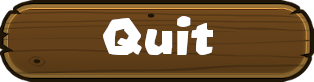
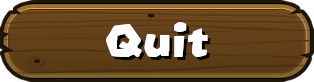
Changed every buttons, added third button state

Changed region(s): [[0.3153, 0.1951, 0.6879, 0.7317]]

diff --git a/src/zMain/check_hover_click.c b/src/zMain/check_hover_click.c
@@ -9,35 +9,45 @@
 
 void check_hover_click_ui(menu_scene *menu_scene)
 {
-    if (menu_scene->ui.play_btn.state == HOVER && sfMouse_isButtonPressed(sfMouseLeft))
-        menu_scene->ui.play_btn.state = CLICK;
-    if (menu_scene->ui.hiscore_btn.state == HOVER && sfMouse_isButtonPressed(sfMouseLeft))
-        menu_scene->ui.hiscore_btn.state = CLICK;
-    if (menu_scene->ui.settings_btn.state == HOVER && sfMouse_isButtonPressed(sfMouseLeft))
-        menu_scene->ui.settings_btn.state = CLICK;
-    if (menu_scene->ui.quit_btn.state == HOVER && sfMouse_isButtonPressed(sfMouseLeft))
-        menu_scene->ui.quit_btn.state = CLICK;
+    button *buttons[4];
+    buttons[0] = &menu_scene->ui.play_btn;
+    buttons[1] = &menu_scene->ui.hiscore_btn;
+    buttons[2] = &menu_scene->ui.settings_btn;
+    buttons[3] = &menu_scene->ui.quit_btn;
+    for (int i = 0; i < 4; i++)
+        if (buttons[i]->state == HOVER && sfMouse_isButtonPressed(sfMouseLeft))
+            buttons[i]->state = CLICKING;
+    for (int i = 0; i < 4; i++)
+        if (buttons[i]->state == HOVER && menu_scene->event->mouseButton.type == sfEvtMouseButtonReleased)
+            buttons[i]->state = CLICKED;
 }
 
 void check_hover_click_choice_menu(menu_scene *menu_scene)
 {
-    if (menu_scene->choice_menu.close_btn.state == HOVER && sfMouse_isButtonPressed(sfMouseLeft) && menu_scene->choice_state == 1)
-        menu_scene->choice_menu.close_btn.state = CLICK;
-    if (menu_scene->choice_menu.map_one_btn.state == HOVER && sfMouse_isButtonPressed(sfMouseLeft) && menu_scene->choice_state == 1) {
+    if (menu_scene->choice_menu.close_btn.state == HOVER &&
+    sfMouse_isButtonPressed(sfMouseLeft) && menu_scene->choice_state == 1)
+        menu_scene->choice_menu.close_btn.state = CLICKING;
+    if (menu_scene->choice_menu.close_btn.state == HOVER &&
+    menu_scene->event->mouseButton.type == sfEvtMouseButtonReleased &&
+    menu_scene->choice_state == 1)
+            menu_scene->choice_menu.close_btn.state = CLICKED;
+    if (menu_scene->choice_menu.map_one_btn.state == HOVER &&
+    sfMouse_isButtonPressed(sfMouseLeft) && menu_scene->choice_state == 1)
         *menu_scene->map_index = 1;
-    }
-    if (menu_scene->choice_menu.map_two_btn.state == HOVER && sfMouse_isButtonPressed(sfMouseLeft) && menu_scene->choice_state == 1) {
+    if (menu_scene->choice_menu.map_two_btn.state == HOVER &&
+    sfMouse_isButtonPressed(sfMouseLeft) && menu_scene->choice_state == 1)
         *menu_scene->map_index = 2;
-    }
-    if (menu_scene->choice_menu.map_three_btn.state == HOVER && sfMouse_isButtonPressed(sfMouseLeft) && menu_scene->choice_state == 1) {
+    if (menu_scene->choice_menu.map_three_btn.state == HOVER &&
+    sfMouse_isButtonPressed(sfMouseLeft) && menu_scene->choice_state == 1)
         *menu_scene->map_index = 3;
-    }
 }
 
 void check_hover_click_options_menu(menu_scene *menu_scene)
 {
     if (menu_scene->opt_ui.close_button.state == HOVER && sfMouse_isButtonPressed(sfMouseLeft))
-        menu_scene->opt_ui.close_button.state = CLICK;
+        menu_scene->opt_ui.close_button.state = CLICKING;
+    if (menu_scene->opt_ui.close_button.state == HOVER && menu_scene->event->mouseButton.type == sfEvtMouseButtonReleased && menu_scene->opt_state == 1)
+        menu_scene->opt_ui.close_button.state = CLICKED;
 }
 
 void check_hover_click(menu_scene *menu_scene)

diff --git a/src/zMain/hovering_buttons.c b/src/zMain/hovering_buttons.c
@@ -9,42 +9,32 @@
 
 void hovering_button(menu_scene *menu_scene)
 {
-    if (is_hovering(menu_scene->ui.play_btn, menu_scene->window))
-        menu_scene->ui.play_btn.state = HOVER;
-    else
-        menu_scene->ui.play_btn.state = IDLE;
-    if (is_hovering(menu_scene->ui.hiscore_btn, menu_scene->window))
-        menu_scene->ui.hiscore_btn.state = HOVER;
-    else
-        menu_scene->ui.hiscore_btn.state = IDLE;
-    if (is_hovering(menu_scene->ui.quit_btn, menu_scene->window))
-        menu_scene->ui.quit_btn.state = HOVER;
-    else
-        menu_scene->ui.quit_btn.state = IDLE;
-    if (is_hovering(menu_scene->ui.settings_btn, menu_scene->window))
-        menu_scene->ui.settings_btn.state = HOVER;
-    else
-        menu_scene->ui.settings_btn.state = IDLE;
+    button *buttons[4];
+    buttons[0] = &menu_scene->ui.play_btn;
+    buttons[1] = &menu_scene->ui.hiscore_btn;
+    buttons[2] = &menu_scene->ui.settings_btn;
+    buttons[3] = &menu_scene->ui.quit_btn;
+    for (int i = 0; i < 4; i++) {
+        if (is_hovering(*buttons[i], menu_scene->window))
+            buttons[i]->state = HOVER;
+        else
+            buttons[i]->state = IDLE;
+    }
 }
 
 void hovering_choice_menu_buttons(menu_scene *menu_scene)
 {
-    if (is_hovering(menu_scene->choice_menu.close_btn, menu_scene->window)) {
-        menu_scene->choice_menu.close_btn.state = HOVER;
-    } else
-        menu_scene->choice_menu.close_btn.state = IDLE;
-    if (is_hovering(menu_scene->choice_menu.map_one_btn, menu_scene->window)) {
-        menu_scene->choice_menu.map_one_btn.state = HOVER;
-    } else
-        menu_scene->choice_menu.map_one_btn.state = IDLE;
-    if (is_hovering(menu_scene->choice_menu.map_two_btn, menu_scene->window)) {
-        menu_scene->choice_menu.map_two_btn.state = HOVER;
-    } else
-        menu_scene->choice_menu.map_two_btn.state = IDLE;
-    if (is_hovering(menu_scene->choice_menu.map_three_btn, menu_scene->window)) {
-        menu_scene->choice_menu.map_three_btn.state = HOVER;
-    } else
-        menu_scene->choice_menu.map_three_btn.state = IDLE;
+    button *buttons[4];
+    buttons[0] = &menu_scene->choice_menu.close_btn;
+    buttons[1] = &menu_scene->choice_menu.map_one_btn;
+    buttons[2] = &menu_scene->choice_menu.map_two_btn;
+    buttons[3] = &menu_scene->choice_menu.map_three_btn;
+    for (int i = 0; i < 4; i++) {
+        if (is_hovering(*buttons[i], menu_scene->window))
+            buttons[i]->state = HOVER;
+        else
+            buttons[i]->state = IDLE;
+    }
 }
 
 void hovering_settings_buttons(menu_scene *menu_scene)

diff --git a/src/zMain/interactions.c b/src/zMain/interactions.c
@@ -9,7 +9,7 @@
 
 void quit_interaction(menu_scene *menu_scene)
 {
-    if (menu_scene->ui.quit_btn.state == CLICK && menu_scene->opt_state == 0 &&
+    if (menu_scene->ui.quit_btn.state == CLICKED && menu_scene->opt_state == 0 &&
     menu_scene->choice_state == 0) {
         sfRenderWindow_close(menu_scene->window);
     }
@@ -17,20 +17,20 @@ void quit_interaction(menu_scene *menu_scene)
 
 void settings_interaction(menu_scene *menu_scene)
 {
-    if (menu_scene->ui.settings_btn.state == CLICK && menu_scene->choice_state == 0) {
+    if (menu_scene->ui.settings_btn.state == CLICKED && menu_scene->choice_state == 0) {
         menu_scene->opt_state = 1;
     }
-    if (menu_scene->opt_ui.close_button.state == CLICK) {
+    if (menu_scene->opt_ui.close_button.state == CLICKED) {
         menu_scene->opt_state = 0;
     }
 }
 
 void play_interaction(menu_scene *menu_scene)
 {
-    if (menu_scene->ui.play_btn.state == CLICK && menu_scene->opt_state == 0) {
+    if (menu_scene->ui.play_btn.state == CLICKED && menu_scene->opt_state == 0) {
         menu_scene->choice_state = 1;
     }
-    if (menu_scene->choice_menu.close_btn.state == CLICK) {
+    if (menu_scene->choice_menu.close_btn.state == CLICKED) {
         menu_scene->choice_state = 0;
     }
 }

diff --git a/src/Update/Update_game_core.c b/src/Update/Update_game_core.c
@@ -11,21 +11,18 @@ void close_events(game_core *game_core)
 {
     if (game_core->event.type == sfEvtClosed)
             sfRenderWindow_close(game_core->window);
-    if (game_core->game_state == MENU && sfKeyboard_isKeyPressed(sfKeyEscape)) {
+    if (sfKeyboard_isKeyPressed(sfKeyEscape))
         sfRenderWindow_close(game_core->window);
-    }
 }
 
 void u_cursor(game_core *game_core)
 {
     game_core->mouse_cursor.pos.x = sfMouse_getPositionRenderWindow(game_core->window).x;
     game_core->mouse_cursor.pos.y = sfMouse_getPositionRenderWindow(game_core->window).y;
-    if (sfMouse_isButtonPressed(sfMouseLeft))
-        sfSprite_setTextureRect(game_core->mouse_cursor.sprite, (sfIntRect){0,
-        64, 64, 64});
+    if (game_core->event.mouseButton.type == sfEvtMouseButtonPressed)
+        sfSprite_setTextureRect(game_core->mouse_cursor.sprite, (sfIntRect){0, 64, 64, 64});
     else
-        sfSprite_setTextureRect(game_core->mouse_cursor.sprite, (sfIntRect){0,
-        0, 64, 64});
+        sfSprite_setTextureRect(game_core->mouse_cursor.sprite, (sfIntRect){0, 0, 64, 64});
     sfSprite_setPosition(game_core->mouse_cursor.sprite, game_core->mouse_cursor.pos);
 }
 

diff --git a/include/my_defender.h b/include/my_defender.h
@@ -24,15 +24,11 @@ enum game_state {
     MENU
 } ;
 
-typedef enum cursor_state {
-    NON_CLICKED,
-    CLICKED
-} cursor_state;
-
 enum button_state {
     IDLE,
     HOVER,
-    CLICK
+    CLICKING,
+    CLICKED
 } ;
 
 enum game_difficulty {
@@ -45,7 +41,6 @@ typedef struct cursor {
     sfSprite *sprite;
     sfTexture *texture;
     sfVector2f pos;
-    cursor_state state;
 } cursor;
 
 typedef struct button {
@@ -109,6 +104,7 @@ typedef struct menu_scene {
     int choice_state;
     int *game_state;
     int *map_index;
+    sfEvent *event;
 } menu_scene;
 
 typedef struct coord {
@@ -134,6 +130,7 @@ typedef struct play_scene {
     menu_background background;
     int difficulty;
     int *game_state;
+    sfEvent *event;
 } play_scene;
 
 typedef struct game_core {

diff --git a/src/Initialization/Init_menu_background.c b/src/Initialization/Init_menu_background.c
@@ -10,7 +10,7 @@
 void i_menu_background(menu_background *menu_background)
 {
     menu_background->background_sprite = sfSprite_create();
-    menu_background->background_texture = sfTexture_createFromFile("img/menu_scene/bg_placeholder.png", NULL);
+    menu_background->background_texture = sfTexture_createFromFile("img/menu_scene/background.png", NULL);
     menu_background->pos = (sfVector2f){0.0, 0.0};
     sfSprite_setTexture(menu_background->background_sprite, menu_background->background_texture, sfTrue);
     sfSprite_setPosition(menu_background->background_sprite, menu_background->pos);

diff --git a/src/Initialization/Init_game_core_pointers.c b/src/Initialization/Init_game_core_pointers.c
@@ -15,4 +15,8 @@ void i_game_core_pointers(game_core *game_core)
     game_core->play_scene.game_state = &game_core->game_state;
     game_core->menu_scene.map_index = malloc(sizeof(int));
     game_core->menu_scene.map_index = &game_core->play_scene.map.map_index;
+    game_core->menu_scene.event = malloc(sizeof(sfEvent));
+    game_core->menu_scene.event = &game_core->event;
+    game_core->play_scene.event = malloc(sizeof(sfEvent));
+    game_core->play_scene.event = &game_core->event;
 }

diff --git a/src/zMain/set_texture.c b/src/zMain/set_texture.c
@@ -16,7 +16,7 @@ void settexture_state(button *button)
         case HOVER : sfSprite_setTexture(button->sprite, button->texture_hover,
         sfTrue);
             break;
-        case CLICK : sfSprite_setTexture(button->sprite, button->texture_click,
+        case CLICKING : sfSprite_setTexture(button->sprite, button->texture_click,
         sfTrue);
             break;
     }

diff --git a/src/zMain/set_scale.c b/src/zMain/set_scale.c
@@ -14,7 +14,7 @@ void setscale_state(button *button)
             break;
         case HOVER : sfSprite_setScale(button->sprite, (sfVector2f){1.0, 1.0});
             break;
-        case CLICK : sfSprite_setScale(button->sprite, (sfVector2f){0.90, 0.90});
+        case CLICKING : sfSprite_setScale(button->sprite, (sfVector2f){0.90, 0.90});
             break;
     }
 

diff --git a/src/Update/Update_play_scene.c b/src/Update/Update_play_scene.c
@@ -9,5 +9,5 @@
 
 void u_play_scene(play_scene *play_scene)
 {
-    fill_map_texture(play_scene);
+    
 }
